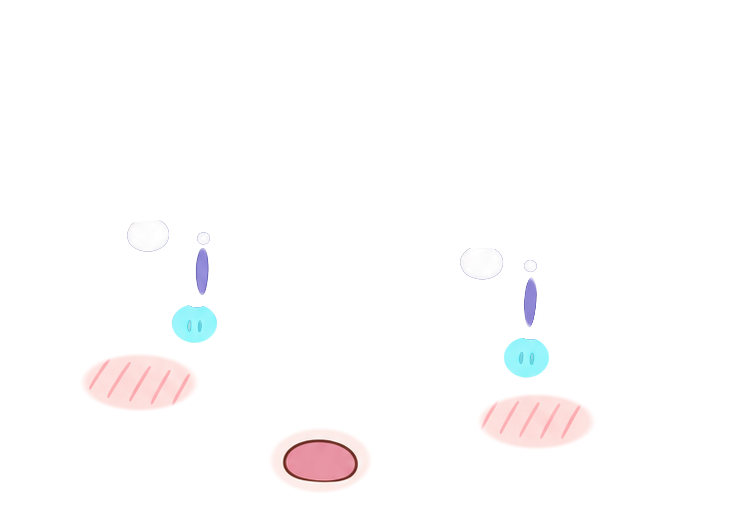
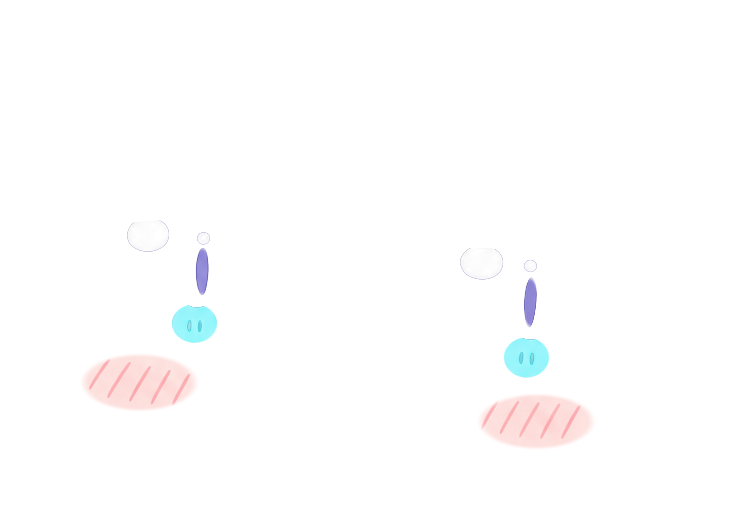
发布 v1.7.6 · 更新提示、任务气泡与康娜表情 (#13)

Changed region(s): [[0.371, 0.8182, 0.4946, 0.9394]]

diff --git a/src/core/app-updates.js b/src/core/app-updates.js
@@ -11,7 +11,11 @@ const repository = 'InhamiRei/Codex-DragonGirl';
 const releases = `https://github.com/${repository}/releases`;
 const latestApi = `https://api.github.com/repos/${repository}/releases/latest`;
 const stableVersion = /^v?(0|[1-9]\d{0,8})\.(0|[1-9]\d{0,8})\.(0|[1-9]\d{0,8})$/;
-const interval = 6 * 60 * 60 * 1000;
+// 后台检查、打开窗口时刷新和网络失败重试采用各自的间隔，限流时延长等待。
+const backgroundInterval = 6 * 60 * 60 * 1000;
+const foregroundInterval = 15 * 60 * 1000;
+const retryInterval = 5 * 60 * 1000;
+const rateLimitInterval = 60 * 60 * 1000;
 const downloadHosts = new Set(['github.com', 'release-assets.githubusercontent.com', 'objects.githubusercontent.com', 'github-releases.githubusercontent.com']);
 const cacheName = /^Codex-DragonGirl-(\d+\.\d+\.\d+)-(?:macOS-arm64\.dmg|Windows-x64(?:-Setup\.exe|\.zip))(?:\.[a-f\d-]{36}\.part)?$/;
 
@@ -68,15 +72,33 @@ export class AppUpdates extends EventEmitter {
     super();
     Object.assign(this, { current, platform, arch, directory, fetch, markDownload, openFile, openPage });
     this.lifetime = new AbortController();
+    this.started = false;
+    this.nextForegroundCheck = 0;
     this.state = { status: 'idle', current, installed, release: null, percent: 0, error: '' };
   }
 
   // 桌宠长期运行时也会发现新版本，自动检查只读取发布信息。
   start() {
-    if (this.timer) return;
+    if (this.started || this.lifetime.signal.aborted) return;
+    this.started = true;
     void this.check();
-    this.timer = setInterval(() => void this.check(), interval);
-    this.timer.unref();
+  }
+
+  // 管理窗口打开时刷新过期的发布信息，短时间内反复打开会共用同一份结果。
+  checkOnOpen() {
+    if (this.started && Date.now() >= this.nextForegroundCheck) void this.check();
+  }
+
+  // 根据检查结果重设定时器，下载或安装占用通道时等当前操作结束。
+  scheduleCheck(delay, foregroundDelay = delay) {
+    if (!this.started || this.lifetime.signal.aborted) return;
+    clearTimeout(this.timer);
+    this.nextForegroundCheck = Date.now() + foregroundDelay;
+    const timer = setTimeout(async () => {
+      while (this.timer === timer && this.pending) await this.pending;
+      if (this.timer === timer) void this.check();
+    }, delay).unref();
+    this.timer = timer;
   }
 
   // 阶段变化时推送完整快照；连续下载进度单独传一个整数。
@@ -101,12 +123,17 @@ export class AppUpdates extends EventEmitter {
     const previous = this.state;
     const downloaded = previous.status === 'ready' || previous.status === 'opened';
     return this.run(async () => {
+      // 网络错误和无效响应保留这次重试，检查成功后再恢复常规频率。
+      this.scheduleCheck(retryInterval);
       this.update({ status: 'checking', error: '' });
       const response = await this.fetch(latestApi, { redirect: 'error', credentials: 'omit', cache: 'no-store',
         headers: { Accept: 'application/vnd.github+json' },
         signal: AbortSignal.any([this.lifetime.signal, AbortSignal.timeout(15000)]) });
-      if (!response.ok) throw new Error(response.status === 403 || response.status === 429
-        ? 'GitHub 暂时限制了检查频率，请稍后重试。' : `获取版本失败（HTTP ${response.status}），请稍后重试。`);
+      if (response.status === 403 || response.status === 429) {
+        this.scheduleCheck(rateLimitInterval);
+        throw new Error('GitHub 暂时限制了检查频率，请稍后重试。');
+      }
+      if (!response.ok) throw new Error(`获取版本失败（HTTP ${response.status}），请稍后重试。`);
       const data = await response.json();
       if (typeof data?.tag_name !== 'string' || !stableVersion.test(data.tag_name) || data.draft || data.prerelease)
         throw new Error('最新正式版的发布信息不完整，请稍后重试。');
@@ -115,6 +142,7 @@ export class AppUpdates extends EventEmitter {
       const sameFile = downloaded && release?.asset && release.asset.url === previous.release?.asset?.url
         && release.asset.digest === previous.release.asset.digest && release.asset.size === previous.release.asset.size;
       await this.cleanCache(release?.asset?.name);
+      this.scheduleCheck(backgroundInterval, foregroundInterval);
       this.update({ release, status: sameFile ? previous.status : release ? 'available' : 'current', percent: sameFile ? 100 : 0 });
     }, downloaded ? previous.status : previous.release ? 'available' : 'error');
   }
@@ -219,7 +247,9 @@ export class AppUpdates extends EventEmitter {
 
   // 退出时终止网络请求，并等待临时文件清理完毕。
   async stop() {
-    clearInterval(this.timer);
+    this.started = false;
+    clearTimeout(this.timer);
+    this.timer = null;
     this.lifetime.abort();
     await this.pending;
   }

diff --git a/tests/app-updates.test.js b/tests/app-updates.test.js
@@ -108,16 +108,66 @@ test('损坏下载或不受信任的重定向不能成为可安装文件', async
   assert.equal(opened.length, 0);
 });
 
-// 限流或断网不能显示为最新，恢复后可以重查；低版本不会触发下载。
-test('检查失败可以重试，回退的最新标签不提示降级', async (t) => {
+// 限流时保留失败状态并延迟自动检查，回退的版本不能触发下载。
+test('限流后延迟自动检查，回退的最新标签不提示降级', async (t) => {
   const { service } = await setup(t);
+  t.mock.timers.enable({ apis: ['Date', 'setTimeout'] });
   service.fetch = async () => new Response('', { status: 429 });
-  await service.check();
+  service.start();
+  await service.pending;
   assert.equal(service.state.status, 'error');
   service.fetch = async () => Response.json(fixture('v1.6.7'));
-  await service.check();
+  t.mock.timers.tick(5 * 60 * 1000);
+  service.checkOnOpen();
+  await service.pending;
+  assert.equal(service.state.status, 'error');
+  t.mock.timers.tick(55 * 60 * 1000);
+  await service.pending;
   assert.equal(service.state.status, 'current');
   assert.equal(service.state.error, '');
+});
+
+// 首次断网后应自动发现新版，管理窗口也能刷新过期结果且不会重复发起检查。
+test('自动检查在断网后重试，打开管理窗口时刷新过期结果', async (t) => {
+  const { service, release } = await setup(t);
+  t.mock.timers.enable({ apis: ['Date', 'setTimeout'] });
+  const fetch = service.fetch;
+  let attempts = 0;
+  // 只让启动时的请求断开，之后返回正常的 GitHub 发布信息。
+  service.fetch = async (...args) => {
+    attempts++;
+    if (attempts === 1) throw new TypeError('fetch failed');
+    return fetch(...args);
+  };
+  service.start();
+  await service.pending;
+  assert.equal(service.state.status, 'error');
+
+  t.mock.timers.tick(5 * 60 * 1000);
+  await service.pending;
+  assert.equal(service.state.status, 'available');
+  assert.equal(service.state.release.version, '1.10.0');
+
+  service.checkOnOpen();
+  assert.equal(attempts, 2);
+  t.mock.timers.tick(15 * 60 * 1000);
+  release.tag_name = 'v1.7.0';
+  service.checkOnOpen();
+  service.checkOnOpen();
+  await service.pending;
+  assert.equal(attempts, 3);
+  assert.equal(service.state.status, 'current');
+  assert.equal(service.state.release, null);
+
+  // 成功后恢复六小时检查，退出时取消下一次检查。
+  t.mock.timers.tick(6 * 60 * 60 * 1000 - 1);
+  assert.equal(attempts, 3);
+  t.mock.timers.tick(1);
+  await service.pending;
+  assert.equal(attempts, 4);
+  await service.stop();
+  t.mock.timers.tick(6 * 60 * 60 * 1000);
+  assert.equal(attempts, 4);
 });
 
 // 长期运行时保留通过核验的附件，新标签、撤回或同名替换都不能继续安装旧缓存。

diff --git a/src/renderer/bubble.css b/src/renderer/bubble.css
@@ -18,6 +18,9 @@ body[data-layout="usage"] .bubble-header { display: flex; }
 .plan, .quota-title { min-width: 0; overflow-wrap: anywhere; }
 .message { flex-shrink: 0; width: 100%; max-width: 100%; margin: 0; font-size: 16px; line-height: 1.45; text-align: center; white-space: pre-wrap; overflow-wrap: anywhere; }
 body[data-layout="text"] .message { text-wrap: balance; }
+body[data-kind="notice"][data-compact="false"] .bubble { padding-inline: 10px; }
+body[data-kind="notice"][data-compact="false"] .bubble-content { width: 196px; container-type: inline-size; }
+body[data-kind="notice"][data-compact="false"] .message { font-size: clamp(13px, calc((100cqi - 2px) / 14), 14px); text-wrap: pretty; }
 body[data-kind="prayer"] { --prayer-line-height: 20px; }
 body[data-kind="prayer"] .bubble-content { height: min(calc(4 * var(--prayer-line-height)), 100%); overscroll-behavior: contain; overflow-anchor: none; }
 body[data-kind="prayer"] .message { line-height: var(--prayer-line-height); text-align: left; text-wrap: wrap; }

diff --git a/src/renderer/bubble.js b/src/renderer/bubble.js
@@ -125,7 +125,8 @@ function contentFitsEllipse() {
 function measure(model, scrollTop = 0) {
   document.body.dataset.compact = 'false';
   contentPane.scrollTop = 0;
-  if (document.body.dataset.layout === 'usage' &&
+  // 通知先利用椭圆中央的宽度保留整句，文字碰到弧线或需要滚动时恢复较窄的内容区。
+  if ((document.body.dataset.layout === 'usage' || model.kind === 'notice') &&
       (contentPane.scrollHeight > contentPane.clientHeight + 1 || !contentFitsEllipse()))
     document.body.dataset.compact = 'true';
   const scrollable = contentPane.scrollHeight > contentPane.clientHeight + 1;

diff --git a/src/main/dashboard.js b/src/main/dashboard.js
@@ -157,6 +157,8 @@ export class Dashboard {
   async open() {
     if (this.stopping) return;
     this.startup?.retain();
+    // 新开或切回管理窗口时检查过期的发布信息。
+    this.updates?.checkOnOpen();
     if (this.window && !this.window.isDestroyed()) {
       if (this.opening) return this.opening;
       if (this.window.isMinimized()) this.window.restore();

diff --git a/README.md b/README.md
@@ -22,7 +22,7 @@
 - **陪伴配置**通过头像切换角色，部件卡使用各自的主题色。龙娘支持散发、单马尾、双马尾、侧麻花辫、双丸子头和齐刘海，发型和瞳色自动保存并同步到桌宠。麻吕、可可萝和康娜可展开查看各自的原版部件。
 - **麻吕互动**：待机睁眼、无口，双颊带红晕，会自然眨眼并小幅看向鼠标；轻点和任务完成时闭眼，失败时显示创可贴表情。待机偶尔播放约五秒的慢速捋发，低头、单眼偷瞄后缓缓恢复；30 帧使用 1254×1254 透明原图，配色、尺寸和身体位置统一。工作时可通过「动作 → 捋头发」手动播放。
 - **可可萝互动**使用透明半身立绘，待机时缓慢轻摆，眼睛先看向鼠标，头身再稍稍倾过去。主任务完成时闭口浅笑并轻轻点头，失败时瞪圆眼睛露出震惊脸。两个表情都可从「动作」菜单预览。
-- **康娜互动**使用微侧歪头的透明半身立绘，待机和眨眼时不画嘴。她会先看向鼠标，头和身体再轻轻倾过去。轻点或主任务完成时，她会睁着亮亮的蓝眼睛，嘴微微张开。失败时眼角含泪。可以在「动作」菜单预览表情，也可以在「陪伴配置」查看龙角、瞳孔、发珠和服饰。[完成表情参考的官方剧照](https://maidragon.jp/movie/counter/assets/image/cut/5.jpg)
+- **康娜互动**使用微侧歪头的透明半身立绘，待机、眨眼、完成和失败都采用无口表情。她会先看向鼠标，头和身体再轻轻倾过去。轻点或主任务完成时，她会睁着亮亮的蓝眼睛。失败时眼角含泪。可以在「动作」菜单预览表情，也可以在「陪伴配置」查看龙角、瞳孔、发珠和服饰。[完成表情参考的官方剧照](https://maidragon.jp/movie/counter/assets/image/cut/5.jpg)
 - **自动朝向**：拖到左半边松手后默认用约 0.3 秒平滑镜像，右半边松手后恢复。跟随模式按宿主窗口左右判断，独立桌面按所在屏幕判断；可在「偏好设置 → 外观 → 自动朝向」关闭，并保留手动翻转。关闭动画反馈或系统减少动态效果时直接切换。
 - **视线与眨眼**支持四位内置角色。眼睛跟随全屏鼠标，静止时也会不定时轻眨双眼，快速闭合、稍慢睁开。龙娘会轻轻呼吸，轻戳时耳尖和发梢会回弹。「偏好设置 → 外观」中的「眼睛跟随」与「自然眨眼」可分别开关，「动画反馈」可关闭身体配合、呼吸和回弹。隐藏、拖动时暂停眨眼，系统减少动态效果时暂停联动。自定义图片保持原样。
 - **开心星光**：轻点默认角色或主任务完成时，紫色虹膜内的星芒和柔光会缓慢漂移、明暗变化，配合一次轻弹，约两秒后恢复。保留原来的无口造型；拖动、取消和错误任务不会触发，静音时仍可显示，可在「偏好设置 → 外观 → 动态表情」关闭。
@@ -54,7 +54,7 @@ Windows 请保留解压后的整个文件夹，程序需要旁边的运行时文
 
 安装包未作商业代码签名；macOS 包采用 ad-hoc 签名，尚未进行 Apple Developer ID 公证。首次打开可能需要系统确认，请从本仓库 Release 下载并核对附件中的 SHA-256。macOS 若拦截，可在「系统设置 → 隐私与安全性」中允许本应用。
 
-从 **v1.7.0** 起，龙娘会在启动时和运行期间每六小时检查 GitHub 最新正式版。当前已是最新版时，管理窗口左上角只显示版本号。发现更高的正式版本后，版本旁会出现「有更新」，点击可以看发布说明并下载。下载时可关闭管理窗口，龙娘会在后台完成下载并核对 SHA-256。
+从 **v1.7.0** 起，龙娘支持应用内更新。龙娘在启动时和运行期间每六小时检查 GitHub 最新正式版，打开管理窗口时也会刷新超过 15 分钟的检查结果。遇到临时网络错误时，约五分钟后自动重试。当前已是最新版时，管理窗口左上角只显示版本号。发现更高的正式版本后，版本旁会出现「有更新」，点击可以看发布说明并下载。下载时可关闭管理窗口，龙娘会在后台完成下载并核对 SHA-256。
 
 - **macOS** 下载完成后点「打开安装包」，退出龙娘，将新版拖入「应用程序」替换。
 - **Windows 安装版** 下载完成后点「重启并更新」，龙娘保存数据并退出，安装器完成后自动重新打开应用。
